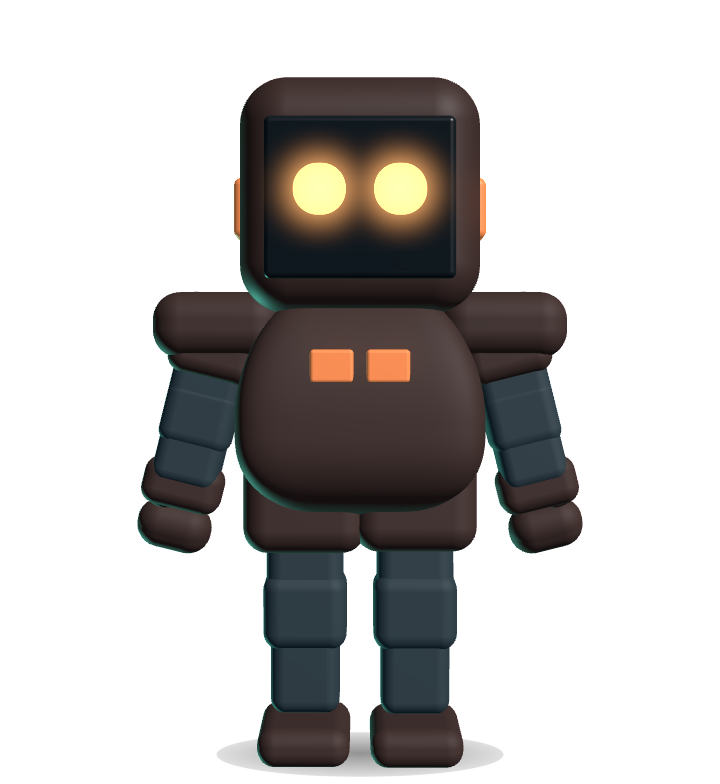
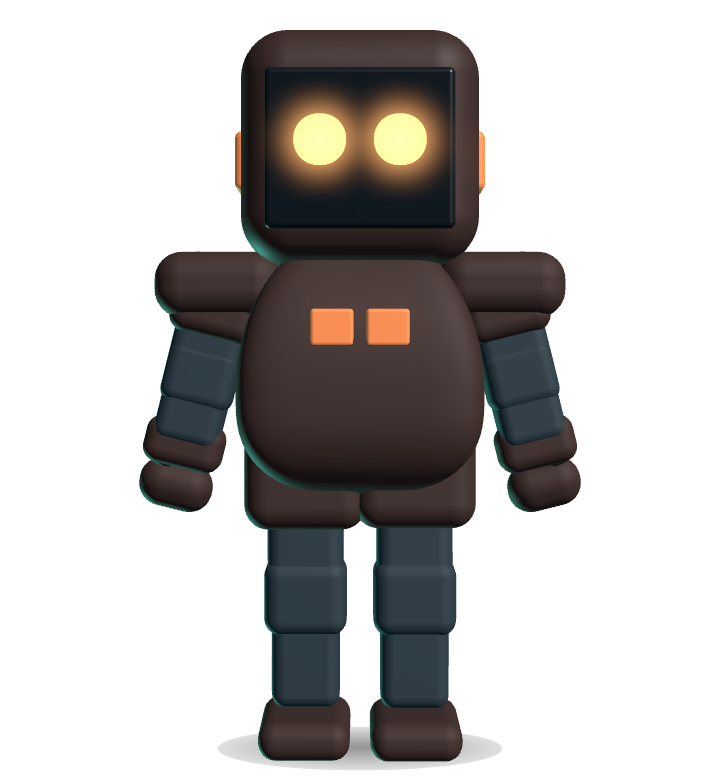
Frame the camera from the model, not from a number beside it
Legs to 0.50 and the torso to 1.10, which pushed the feet straight out of
frame: the camera distance was a constant typed in next to them, the same trap
the shadow was in. It computes the distance from the height it has to fit and
centres on the middle of that, so the pet can grow without walking out of its
own picture.

diff --git a/app/Sources/Squawk/Companion3D/CompanionScene.swift b/app/Sources/Squawk/Companion3D/CompanionScene.swift
@@ -48,13 +48,13 @@ final class CompanionScene {
     // Proportions. Deliberately not the flat drawing's: a body seen in
     // perspective needs real depth and legs the drawing never had.
     private enum Size {
-        static let body = SCNVector3(0.98, 0.98, 0.84)
+        static let body = SCNVector3(0.98, 1.10, 0.84)
         static let head = CGFloat(0.94)
         static let headDepth = CGFloat(0.78)
         static let neck = CGFloat(0.30)
         static let armLength = CGFloat(0.32)
         static let armThickness = CGFloat(0.170)
-        static let legLength = CGFloat(0.46)
+        static let legLength = CGFloat(0.50)
         static let legThickness = CGFloat(0.180)
         static let hipSpread = CGFloat(0.22)
 
@@ -73,6 +73,17 @@ final class CompanionScene {
         /// How far forward the feet sit, so the shadow is under them rather
         /// than under the hips.
         static var soleZ: CGFloat { legThickness * 0.55 }
+
+        /// The top of the head, walked up the same chain the head is built from.
+        static var crownY: CGFloat {
+            CGFloat(body.y) * 0.5 + neck + head * 0.98 / 2
+        }
+
+        /// What the camera has to fit, with room around it. Derived, because a
+        /// framing typed in beside the legs goes wrong the moment they change:
+        /// the feet were cut off the first time they grew past it.
+        static var framedHeight: CGFloat { (crownY - soleY) * 1.12 }
+        static var framedCentre: CGFloat { (crownY + soleY) / 2 }
 
         /// Wide enough to cover both feet with a little spread.
         static var shadowSize: CGSize {
@@ -766,7 +777,11 @@ final class CompanionScene {
         camera.bloomBlurRadius = 14
         camera.wantsExposureAdaptation = false
         cameraNode.camera = camera
-        cameraNode.position = SCNVector3(0, 0.02, 6.6)
+        // Far enough back for the whole pet plus its margin, at this field of
+        // view, and centred on the middle of it rather than on a guess.
+        let halfAngle = CGFloat(camera.fieldOfView / 2 * .pi / 180)
+        let distance = (Size.framedHeight / 2) / tan(halfAngle)
+        cameraNode.position = SCNVector3(0, Size.framedCentre, distance)
         scene.rootNode.addChildNode(cameraNode)
     }
 
